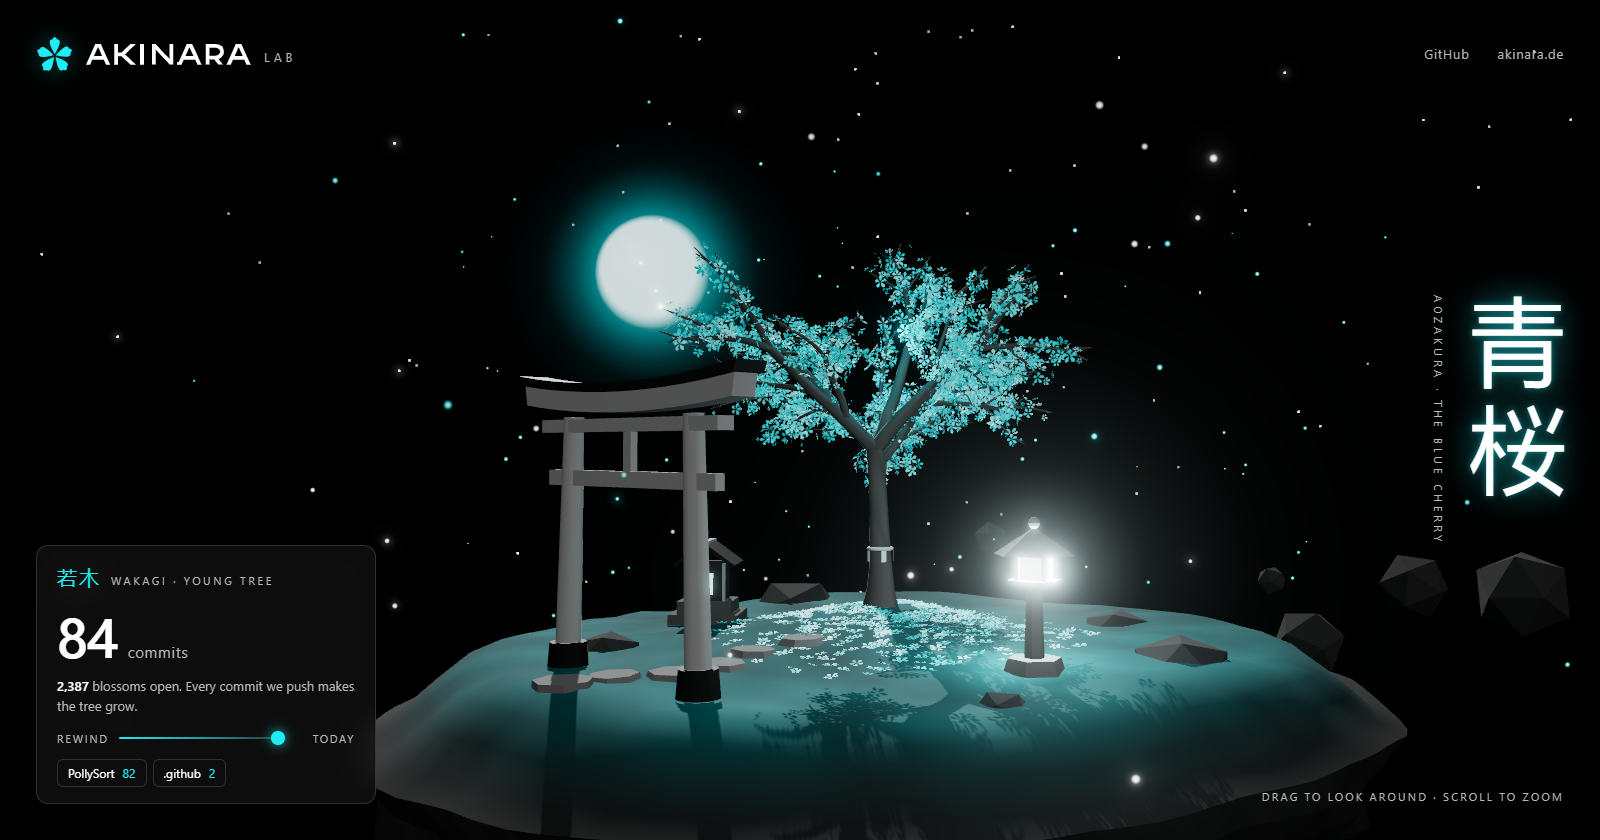
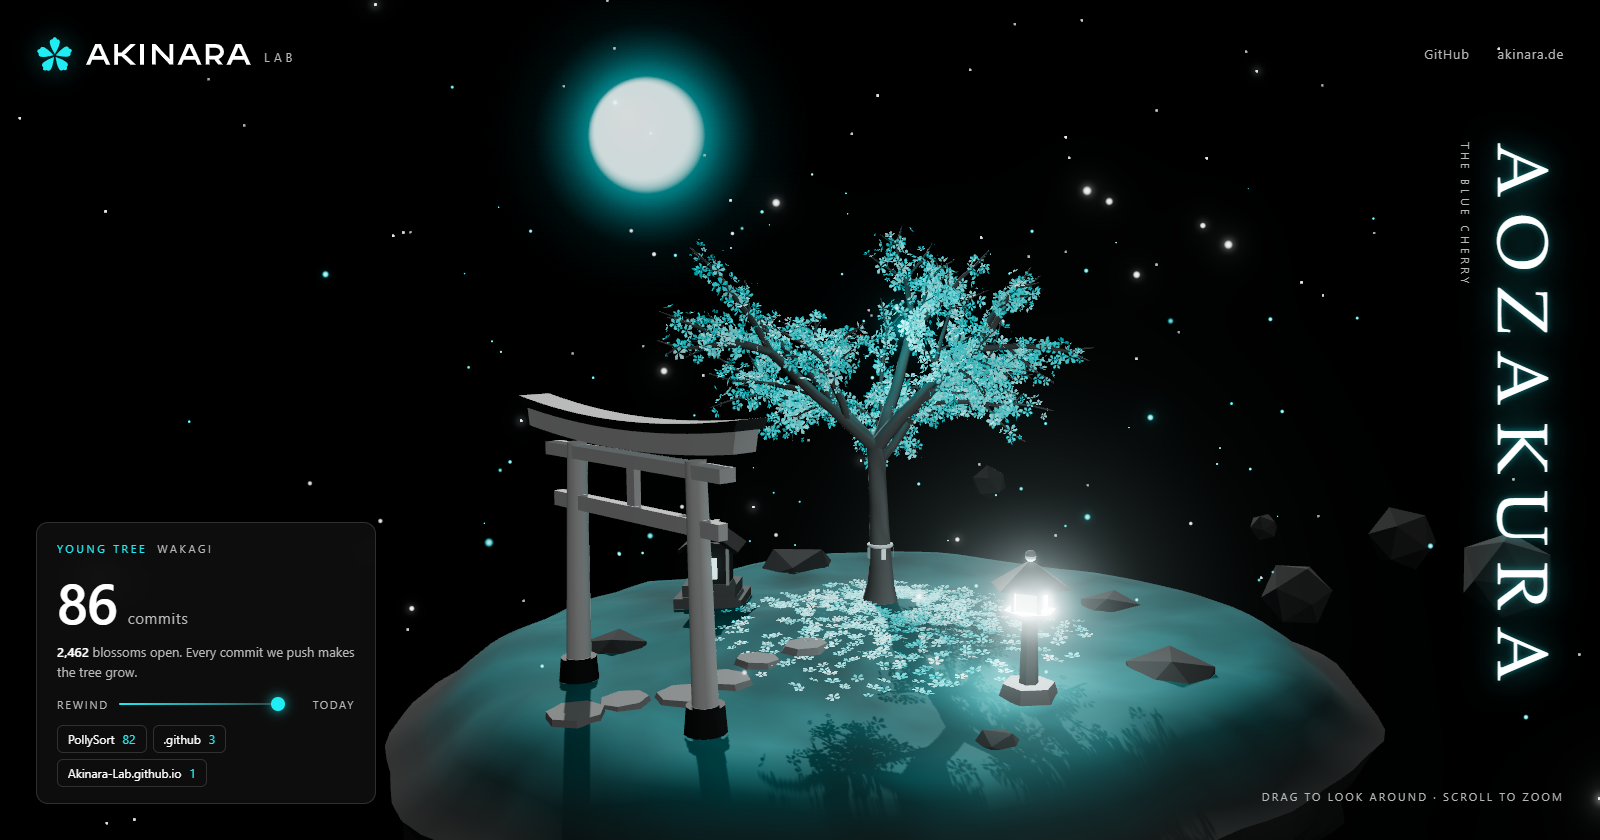
Remove Japanese characters from the page and README
The title, the growth stages and the README now use Latin script only.
The preview image is re-captured to match.

diff --git a/style.css b/style.css
@@ -10,7 +10,7 @@
   --line: rgba(255, 255, 255, 0.14);
   --glass: rgba(18, 18, 18, 0.72);
   --sans: system-ui, -apple-system, 'Segoe UI', Helvetica, Arial, sans-serif;
-  --mincho: 'Yu Mincho', 'YuMincho', 'Hiragino Mincho ProN', 'Noto Serif JP', 'Songti SC', serif;
+  --serif: 'Iowan Old Style', 'Palatino Linotype', Palatino, Georgia, serif;
   --pad: clamp(16px, 3vw, 36px);
 }
 
@@ -76,11 +76,12 @@ nav a:hover { color: var(--cyan); border-color: var(--cyan); }
   user-select: none;
 }
 .title span { display: block; }
-.kanji {
-  font-family: var(--mincho);
-  font-size: clamp(44px, 7vw, 96px);
+.name {
+  font-family: var(--serif);
+  font-size: clamp(34px, min(5vw, 9vh), 72px);
   line-height: 1.1;
-  letter-spacing: 0.12em;
+  letter-spacing: 0.22em;
+  text-transform: uppercase;
   color: var(--text);
   text-shadow: 0 0 34px rgba(32, 236, 243, 0.6), 0 0 6px rgba(32, 236, 243, 0.45);
 }
@@ -101,7 +102,7 @@ nav a:hover { color: var(--cyan); border-color: var(--cyan); }
 .panel p { margin: 0; }
 
 .stage { display: flex; align-items: baseline; gap: 10px; color: var(--muted); font-size: 11px; letter-spacing: 0.24em; text-transform: uppercase; }
-#stage-kanji { font-family: var(--mincho); font-size: 20px; letter-spacing: 0.1em; color: var(--cyan); }
+#stage-name { color: var(--cyan); }
 
 .count { margin-top: 8px !important; font-size: 15px; color: var(--muted); letter-spacing: 0.04em; }
 .count strong { font-size: clamp(40px, 6vw, 56px); font-weight: 600; color: #fff; letter-spacing: -0.02em; margin-right: 6px; font-variant-numeric: tabular-nums; }
@@ -145,7 +146,7 @@ input[type='range']::-moz-range-thumb { width: 14px; height: 14px; border-radius
 
 @media (max-width: 640px) {
   .title { top: 76px; transform: none; }
-  .kanji { font-size: 40px; }
+  .name { font-size: 30px; }
   .title .reading { display: none; }
   .hint { display: none; }
   .panel { padding: 14px 16px 12px; }

diff --git a/index.html b/index.html
@@ -3,10 +3,10 @@
 <head>
   <meta charset="utf-8">
   <meta name="viewport" content="width=device-width, initial-scale=1, viewport-fit=cover">
-  <title>AKINARA Lab · 青桜</title>
+  <title>AKINARA Lab · Aozakura</title>
   <meta name="description" content="A blue cherry tree that grows with every commit we push. AKINARA builds custom AI tools for the construction industry.">
   <meta name="theme-color" content="#000000">
-  <meta property="og:title" content="AKINARA Lab · 青桜">
+  <meta property="og:title" content="AKINARA Lab · Aozakura">
   <meta property="og:description" content="A blue cherry tree that grows with every commit we push.">
   <meta property="og:image" content="https://akinara-lab.github.io/preview.png">
   <meta name="twitter:card" content="summary_large_image">
@@ -32,12 +32,12 @@
   </header>
 
   <aside class="title" aria-hidden="true">
-    <span class="kanji">青桜</span>
-    <span class="reading">aozakura · the blue cherry</span>
+    <span class="name">Aozakura</span>
+    <span class="reading">the blue cherry</span>
   </aside>
 
   <main class="panel">
-    <p class="stage"><span id="stage-kanji">種</span><span id="stage-text">tane · seed</span></p>
+    <p class="stage"><span id="stage-name">seed</span><span id="stage-text">tane</span></p>
     <p class="count"><strong id="commits">0</strong> commits</p>
     <p class="sub"><strong id="blossoms">0</strong> blossoms open. Every commit we push makes the tree grow.</p>
     <label class="rewind">

diff --git a/src/main.js b/src/main.js
@@ -20,12 +20,12 @@ const ageOf = (commits) => {
 const commitsOf = (age) => Math.pow((K * age) / (1 - age), 1 / P);
 
 const STAGES = [
-  [0.03, '種', 'tane', 'seed'],
-  [0.16, '芽', 'me', 'sprout'],
-  [0.5, '若木', 'wakagi', 'young tree'],
-  [0.72, '成木', 'seiboku', 'grown tree'],
-  [0.87, '古木', 'koboku', 'old tree'],
-  [2, '神木', 'shinboku', 'sacred tree'],
+  [0.03, 'tane', 'seed'],
+  [0.16, 'me', 'sprout'],
+  [0.5, 'wakagi', 'young tree'],
+  [0.72, 'seiboku', 'grown tree'],
+  [0.87, 'koboku', 'old tree'],
+  [2, 'shinboku', 'sacred tree'],
 ];
 
 const $ = (id) => document.getElementById(id);
@@ -145,9 +145,9 @@ function start() {
     const stage = STAGES.findIndex((s) => age < s[0]);
     if (stage !== shownStage) {
       shownStage = stage;
-      const [, kanji, reading, meaning] = STAGES[stage];
-      $('stage-kanji').textContent = kanji;
-      $('stage-text').textContent = `${reading} · ${meaning}`;
+      const [, reading, meaning] = STAGES[stage];
+      $('stage-name').textContent = meaning;
+      $('stage-text').textContent = reading;
     }
   }
 

diff --git a/README.md b/README.md
@@ -1,4 +1,4 @@
-# 青桜 · aozakura
+# Aozakura · the blue cherry
 
 The landing page of [Akinara-Lab](https://github.com/Akinara-Lab): a blue cherry
 tree on a floating island, rendered with three.js. **The tree grows with every
@@ -17,9 +17,9 @@ age = c^0.6 / (c^0.6 + 17)        c = commits across all repositories
 
 Early commits make a visible difference, later ones add twigs and blossoms, and
 the tree never quite finishes. Blossoms sit on young wood only, so they move
-outwards as the branches thicken. The stages are 種 seed, 芽 sprout, 若木 young
-tree (up to roughly 110 commits), 成木 grown tree (about 540), 古木 old tree
-(about 2,700) and 神木 sacred tree.
+outwards as the branches thicken. The stages are seed, sprout, young tree (up to
+roughly 110 commits), grown tree (about 540), old tree (about 2,700) and sacred
+tree.
 
 The slider rewinds the tree to any earlier commit count.
 `?commits=5000` previews any size, `?still` skips the animation.
